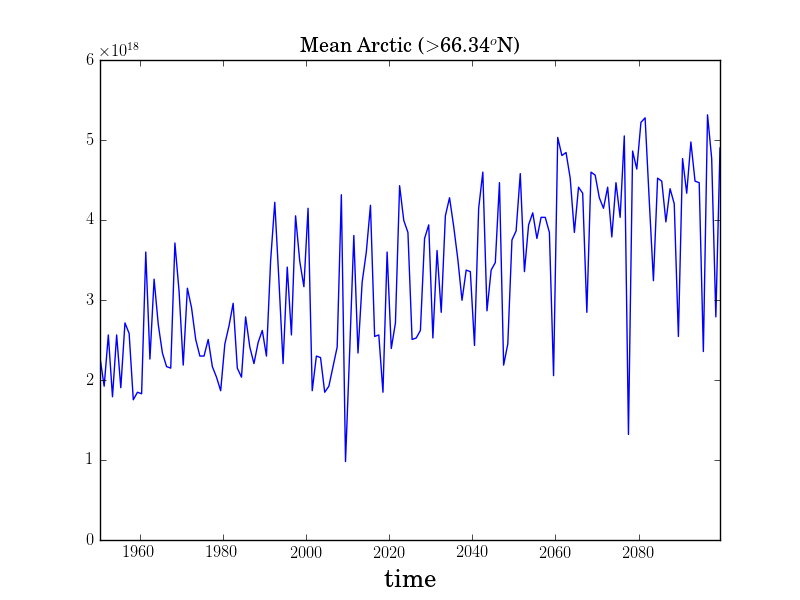
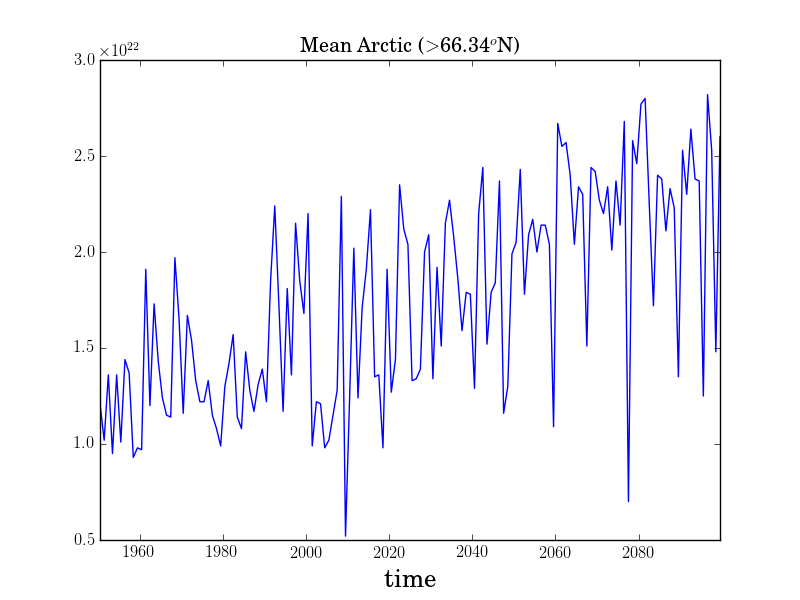
looking at differences coupled/uncoupled in term of fresh water export

diff --git a/Forcings/time_serie_FWFice.py b/Forcings/time_serie_FWFice.py
@@ -1,0 +1,137 @@
+#from  mpl_toolkits.basemap import Basemap
+import matplotlib.pyplot as py
+from matplotlib.ticker import NullFormatter,MultipleLocator, FormatStrFormatter
+import matplotlib.gridspec as gridspec
+import scipy
+import netCDF4
+
+from pylab import *
+from netCDF4 import Dataset
+
+from scipy.interpolate import Rbf
+import os
+import sys
+import numpy as np
+import gsw
+#import make_plot
+import loading
+
+
+var = 'MeltedIce'
+option = 'Uncoupled'		# Coupled, Uncoupled
+y1 = 1950
+y2 = 2100
+month = 'april'                  #Sept or April
+basin ='greenland_sea'		# arctic_ocean, BS_and_KS, undefined
+lat_min = 66.34 		#IF basin = 'undefined'
+                                #ex: 66.34 for polar circle
+
+comparison = 'no'
+y1_compa = 1950
+y2_compa = 2000
+
+#if var == 'IceC':
+#{   y1 = 1950
+
+
+#//////////////////////////////////////////////////////////////////////////////////////////
+class From1950to2100():									#//
+        										#//
+  #___________________									#//
+  def __init__(self,option,var,y1,y2,compa,lat_min,basin,month):				#//
+     self.max_depth = 1000	                                                        #//
+     self.first_year = 1950
+     self.y1 = y1 	                                                                #//
+     self.y2 = y2
+     if basin == 'undefined':								#//
+        sufix = str(self.y1)+'to'+str(self.y2)+'_'+str(lat_min)+'_'+str(option)
+     else: 
+        sufix = str(self.y1)+'to'+str(self.y2)+'_'+str(basin)+'_'+str(option)
+
+     if compa == 'no':									#//
+        self.output_file = str(var)+'extent_'+str(month)+'_TimeSerie_'+str(sufix)
+     elif compa == 'yes':
+        self.output_file = str(var)+'extent_'+str(month)+'_TimeSerieAnomaly_'+str(sufix)
+
+     self.path = '/media/fig010/LACIE SHARE/EC_Earth/EC_data/Forcings_'\
+                  +str(option)+'.nc' 
+
+     if compa == 'yes':
+        self.vmin = -1                                                                   #//
+        self.vmax = 2.6                                                                 #//
+
+     elif compa =='no':
+        self.vmin = -3*1E14                                                               #//
+        self.vmax = 3*1E14                                                              #//
+
+     return										#//
+#//////////////////////////////////////////////////////////////////////////////////////////
+
+def var_fc_time(var,variable_name,t,first_year_file,lat_min,name_outfile,ocean):
+  plt.figure(figsize=(10,6))
+  plt.rc('text', usetex=True)
+  plt.rc('font', family='serif')
+  fig,ax=plt.subplots()
+  t = t/(3600*24*365.)
+  plt.xlim([first_year_file+np.min(t),first_year_file+np.max(t)])
+  #plt.ylim([0.,0.75])
+  plt.plot(first_year_file+t,var)
+  plt.ylabel('FWF (kg.s$^{-1}$)',fontsize=18)
+  plt.xlabel('time',fontsize=18)
+  if ocean == 'undefined':
+      plt.title('Arctic mediterranean seas ($>$'+str(lat_min)+'$^{o}$N)')
+  else:
+      plt.title(str(ocean.replace("_"," ")))
+  plt.savefig(str(variable_name)+'/'+str(name_outfile.replace(".",""))+'.png')
+  return
+
+
+def time_serie(path,var,lat_min,basin):
+  yr, xr, time = loading.extracting_coord_2D(path)
+  melted_ice = loading.extracting_var(path, var)
+  S = loading.extracting_var(path,'sal')
+
+  if basin =='undefined':
+     mask = loading.latitudinal_band_mask(yr,lat_min,90)
+  else:
+     mask = loading.Ocean_mask(xr,yr,basin)
+  area = size_each_bins(xr,yr)
+
+  FWF = area[mask]*melted_ice[mask].transpose(1, 0)*1E6
+  mean_FWF = np.nansum(FWF,axis=1)
+  return time, mean_FWF
+
+  
+
+ # - - - - - - - - - - - - - - - - - - - - - - - - - - - - - - - - - - - - - - - - - - - - 
+def size_bin(x0, x1, x2, y0, y1, y2):
+  x = gsw.distance([x2, x0] , [y1, y1],[0,0])/2.
+  y = gsw.distance([x1, x1] , [y2, y0],[0,0])/2.
+  area = x*y
+  return area
+
+def size_each_bins(xr,yr):
+
+  area = np.zeros_like((xr))
+  '''for j in range(1,np.size(xr[0,:])-1):
+    area[0,j] = size_bin(xr[-1,j], xr[0,j], xr[1,j], yr[0,j-1], yr[0,j], yr[0,j+1])
+    area[-1,j] = size_bin(xr[-2,j], xr[-1,j], xr[0,j], yr[-1,j-1], yr[-1,j], yr[-1,j+1])
+  
+  for i in range(1,np.size(xr[:,0])-1):
+    area[i,0] = size_bin(xr[i-1,0], xr[i,0], xr[i+1,0], yr[i,0], yr[i,0], yr[i,1])
+    area[i,-1] = size_bin(xr[i-1,-1], xr[i,-1], xr[i+1,-1], yr[i,-2], yr[i,-1], yr[i,-1])'''
+  for i in range(1,np.size(xr[:,0])-1):
+    for j in range(1,np.size(xr[0,:])-1):
+      area[i,j] = size_bin(xr[i-1,j], xr[i,j], xr[i+1,j], yr[i,j-1], yr[i,j], yr[i,j+1])
+  return area 
+ # - - - - - - - - - - - - - - - - - - - - - - - - - - - - - - - - - - - - - - - - - - - - 
+ # - - - - - - - - - - - - - - - - - - - - - - - - - - - - - - - - - - - - - - - - - - - - 
+
+
+simu = From1950to2100(option,var,y1,y2,comparison,lat_min,basin,month) 
+time, FWF_region = time_serie(simu.path,var,lat_min,basin)
+print(np.nanmin(FWF_region),np.nanmax(FWF_region))
+index_y1 = np.min(np.where(simu.first_year+time[:]/(3600*24*364.5)>simu.y1))
+index_y2 = np.min(np.where(simu.first_year+time[:]/(3600*24*364.5)>simu.y2))
+
+var_fc_time(FWF_region[index_y1:index_y2+1],var,time[index_y1:index_y2+1],simu.first_year,lat_min,simu.output_file,basin)

diff --git a/Forcings/basic_map.py b/Forcings/basic_map.py
@@ -16,14 +16,14 @@ import numpy as np
 import make_plot
 import loading
 
-var = 'runoff'		#sal, runoff, albedo, downHF
-option = 'Uncoupled'
+var = 'MeltedIce'		#sal, runoff, albedo, downHF
+option = 'Coupled'
 specificity = ''
-y1 = 2050
+y1 = 2000
 y2 = 2100
 control = 'Uncoupled'   # Uncoupled or historic
 
-comparison = 'yes'
+comparison = 'no'
 
 title_plot =  str(specificity)+' '+str(y1)+' to '+str(y2)
 
@@ -59,13 +59,16 @@ class From1950to2100():                                                         
       elif var == 'runoff':
         self.vmin = -1E20
         self.vmax = 1E20
+      elif var == 'MeltedIce':
+        self.vmin = -2*1E-5                                                                   #//
+        self.vmax = 2E-5                                                                #//
 
      elif compa =='no':
        if var == 'sal':                                                               #//
         self.vmin = 31.92                                                               #//
         self.vmax = 34.86                                                               #//
        elif var == 'runoff':
-        self.vmin = 1*1E8                                                                   #//
+        self.vmin = -2*1E-5                                                                   #//
         self.vmax = 1E20                                                                  #//
        elif var == 'downHF':
         self.vmin = 0                                                                   #//
@@ -73,6 +76,9 @@ class From1950to2100():                                                         
        elif var == 'albedo':
         self.vmin = 0                                                                   #//
         self.vmax = 10 
+       elif var == 'MeltedIce':
+        self.vmin = -2*1E-5                                                                   #//
+        self.vmax = 1E-4                                                                  #//
 
      return                                                                             #//
 #//////////////////////////////////////////////////////////////////////////////////////////
@@ -98,11 +104,12 @@ if comparison == 'no':
    array_to_plot[array_to_plot==0] = np.nan
    array_to_plot = np.ma.masked_invalid(array_to_plot)
    make_plot.plot_map(xr,yr,array_to_plot ,var,title_plot,simu.output_file,simu.vmin,simu.vmax)
+
 elif comparison == 'yes':
    if control == 'Uncoupled':
      path2 = '/media/fig010/LACIE SHARE/EC_Earth/EC_data/Forcings_Coupled.nc'
      Coupled_array = loading.extracting_var(path2, var)
-     out = str(simu.output_file)+'CvsUC'
+     out = str(simu.output_file)+'C-UC'
      array_to_plot = np.mean(Coupled_array[:,:,index_y1:index_y2+1],axis=2)-np.mean(VarArray_simu[:,:,index_y1:index_y2+1],axis=2)
    else: 
      out = str(simu.output_file)+'AnoTo90s_'+str(option)
@@ -112,6 +119,7 @@ elif comparison == 'yes':
 
    array_to_plot[array_to_plot==0] = np.nan
    array_to_plot = np.ma.masked_invalid(array_to_plot)
+   print(np.nanmax(array_to_plot))
    make_plot.plot_map(xr,yr,array_to_plot,var,title_plot,out,simu.vmin,simu.vmax)
 
 

diff --git a/Forcings/time_serie_anomalie.py b/Forcings/time_serie_anomalie.py
@@ -17,12 +17,12 @@ import make_plot
 import loading
 
 
-var = 'albedo'			# sal, runoff, albedo, downHF
-option = 'Uncoupled'		# Coupled, Uncoupled
+var = 'MeltedIce'			# sal, runoff, albedo, downHF
+option = 'Coupled'		# Coupled, Uncoupled
 y1 = 1950
 y2 = 2100
 
-basin ='greenland_sea'		# arctic_ocean, BS_and_KS, undefined
+basin ='around_greenland'		# arctic_ocean, BS_and_KS, undefined
 lat_min = 66.34 		#IF basin = 'undefined'
                                 #ex: 66.34 for polar circle
 
@@ -79,6 +79,9 @@ class From1950to2100():									#//
        elif var == 'albedo':
         self.vmin = 0                                                                   #//
         self.vmax = 10		                                                        #//
+       elif var == 'MeltedIce':
+        self.vmin = 0                                                                   #//
+        self.vmax = 10		                                                        #//
      return										#//
 #//////////////////////////////////////////////////////////////////////////////////////////
 
@@ -97,7 +100,7 @@ def time_serie_Arctic(path,var,lat_min,basin):
      make_plot.points_on_map(xr[mask],yr[mask],var,basin)
 
   arctic = TorS[mask,:,:]
-
+  arctic[np.where(arctic==0)]=np.nan
   mean_Arctic = np.nanmean(arctic,axis=0)
 
   return time, depth, mean_Arctic
@@ -106,7 +109,7 @@ def time_serie_Arctic(path,var,lat_min,basin):
 def time_serie_Arctic_2D(path,var,lat_min,basin):
   yr, xr, time = loading.extracting_coord_2D(path)
   ice = loading.extracting_var(path, var)
-
+  print(np.max(ice),np.min(ice))
   S = loading.extracting_var(path,'sal')
   ice[np.where( S[:,:,0,:]==0. )] = np.nan
 
@@ -117,14 +120,15 @@ def time_serie_Arctic_2D(path,var,lat_min,basin):
      make_plot.points_on_map(xr[mask],yr[mask],var,basin)
 
   arctic = ice[mask,:]
-  mean_Arctic = np.nanmean(arctic,axis=0)
+  arctic[np.where(arctic==0)]=np.nan
+  mean_Arctic = np.nansum(arctic,axis=0)
   return time, mean_Arctic
 
  # - - - - - - - - - - - - - - - - - - - - - - - - - - - - - - - - - - - - - - - - - - - - 
 
 
 simu = From1950to2100(option,var,y1,y2,comparison,lat_min,basin) 
-if var == 'IceC' or var =='albedo' or var =='downHF' or var =='runoff':
+if var == 'IceC' or var =='albedo' or var =='downHF' or var =='runoff' or var =='MetledIce':
   time, mean_Arctic_simu = time_serie_Arctic_2D(simu.path,var,lat_min,basin)
 else:
   time, depth, mean_Arctic_simu = time_serie_Arctic(simu.path,var,lat_min,basin)
@@ -134,7 +138,7 @@ index_y2 = np.min(np.where(simu.first_year+time[:]/(3600*24*364.5)>simu.y2))
 
 # JUST ONE TIME SERIE PLOT
 if comparison == 'no':
-   if var == 'IceC' or var =='albedo' or var =='downHF' or var =='runoff':
+   if var == 'IceC' or var =='albedo' or var =='downHF' or var =='runoff' or var =='MeltedIce':
      print(np.max(mean_Arctic_simu))
      print(np.shape(mean_Arctic_simu))
      print(mean_Arctic_simu)

diff --git a/Forcings/make_plot.py b/Forcings/make_plot.py
@@ -44,6 +44,10 @@ def points_on_map(xr,yr,variable_name,ocean):
    plt.close(fig)
    return
 
+def fmt(x, pos):
+   a, b = '{:.2e}'.format(x).split('e')
+   b = int(b)
+   return r'${} \times 10^{{{}}}$'.format(a, b)
 
 
 def plot_map(xr,yr,variable,variable_name,title,option,vmin,vmax):
@@ -53,7 +57,7 @@ def plot_map(xr,yr,variable,variable_name,title,option,vmin,vmax):
    # year: age of the data
    # time: month? yearly mean? 
    m = Basemap(projection='lcc', resolution='l',
-            lon_0=-20, lat_0=70, lat_1=89, lat_2=50,
+            lon_0=-20, lat_0=90, lat_1=89.9999, lat_2=50,
             width=1.E7, height=0.9E7)
    #m = Basemap(projection='ortho',lat_0=60,lon_0=-20,resolution='l')
    x,y = m(xr, yr)
@@ -69,6 +73,7 @@ def plot_map(xr,yr,variable,variable_name,title,option,vmin,vmax):
    # Add Colorbar
    cs = m.pcolor(x,y,variable,vmin=vmin,vmax=vmax)
    cbar = m.colorbar(cs, location='bottom')
+   #cbar.ax.set_yticklabels(['{:.000f}'.format(x) for x in np.arange(vmin, vmax, 5)])
    if variable_name=='icet':
       cbar.ax.set_xlabel('Ice Thickness (m)')
    elif variable_name == 'sal':
@@ -79,7 +84,12 @@ def plot_map(xr,yr,variable,variable_name,title,option,vmin,vmax):
       cbar.ax.set_xlabel('Mixed layer depth (m)')
    elif variable_name=='IceC':
       cbar.ax.set_xlabel('Ice cover (concentration)')
-   
+   elif variable_name=='MeltedIce':
+      cbar.formatter.set_powerlimits((0, 0))
+      cbar.update_ticks()
+      cbar.ax.set_xlabel('FWF ice to ocean (kg.m$^{-2}$.s$^{-1}$)')
+    
+    
 
    plt.title(str(title),size=20)
    plt.savefig(str(variable_name)+'/'+str(option.replace(".",""))+'.png')

diff --git a/Forcings/loading.py b/Forcings/loading.py
@@ -51,6 +51,8 @@ def extracting_var(path, variable_name):
     var = Forder(nc.variables['sorunoff'][:])
   elif variable_name =='albedo':
     var = Forder(nc.variables['soicealb'][:])
+  elif variable_name =='MeltedIce':
+    var = Forder(nc.variables['iowaflup'][:])
   nc.close()
   return var
 
@@ -126,6 +128,8 @@ def Ocean_mask(x,y,basin):
      mask = ((y<80)&(y>68)&(x<105)&(x>20))
   elif basin == 'greenland_sea':
      mask = ( (y<80) & (((y>65)&(x>-25)&(x<-15)) | ((y>76)&(x>0)&(x<20)) | ((x>-15)&(x<0)&(y>76+11*x/15.))))
+  elif basin == 'around_greenland':
+     mask = ((y<85) & (y>75) & (x<-12) & (x>-100)) | ((y<75) & (y>67) & (x>-60) & (x<-18)) | ((y<67) & (y>58) & (x<-33) & (x>-58))
 
   return mask
 
